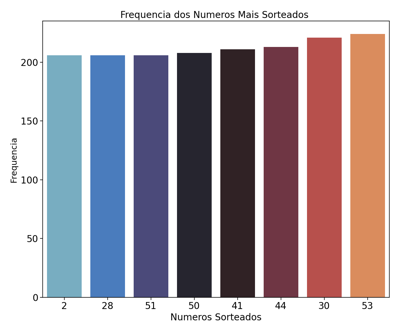
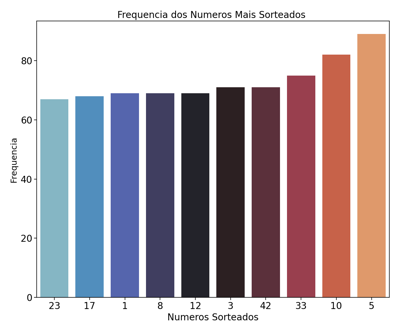
atualizada a janela 4 com mais dados

diff --git a/telas.py b/telas.py
@@ -188,8 +188,8 @@ class  Primeira():
         freq = a.FreqNumSorteados(ganhadores)
         freq.sort_values(['Frequencia'], ascending=True)
         est_freq = a.estatisticoData(freq)
-        self.Max = a.nMaiores(freq,15) ##  Esse valor de 20 é que define o tamanho da amostra mais sorteados
-        self.Min = a.nMenores(freq,15) ## mesmo acima menos sorteados 
+        self.Max = a.nMaiores(freq,10) ##  Esse valor de 20 é que define o tamanho da amostra mais sorteados
+        self.Min = a.nMenores(freq,10) ## mesmo acima menos sorteados 
         return (self.Max, self.Min)
 
 ## Segunda tela
@@ -405,7 +405,7 @@ class Terceira():
 
 ### Quarta tela
 class Quarta():
-    def __init__(self, res) -> None:
+    def __init__(self, lst, res, a, b, c, d, e, f) -> None:
             
             self.c1 = '#0d2754'  #Cor do fundo de tela geral
             self.c2 = '#0a0e2e' #Cor de fundo do  Frame
@@ -414,7 +414,7 @@ class Quarta():
             self.c5 ='#f5f5f7'  #Cor dos textos
             self.c6 = '#eb3175' # Cor para  fundo respostas Rosado 
             self.c7 = '#f5e35b' # Cor texto resposta Amarelado
-
+            self.c8 = '#abf5d0' # Cor fundo texto respostas em verde
 
             # Demais funcoes de tela
             self.janela = Toplevel()
@@ -429,12 +429,20 @@ class Quarta():
             self.janela.focus_force()
             self.janela.grab_set()
             ## Chamando demais funçoes 
-            self.framesScreem(res)
+            self.framesScreem(lst, res, a,b,c,d,e,f)
             
-
-    def framesScreem (self, resultado):
+            
+    def framesScreem (self, lista, resultado, a,b, c, d, e, f):
             '''Função que define o tamnho e a posição dos frames'''
+            self.jogoProposto = lista
             self.resultAvalia = resultado
+            self.umNumero = a
+            self.doisNumeros = b
+            self.tresNumeros = c
+            self.quatroNumeros = d
+            self.cincoNumeros = e
+            self.seisNumeros = f
+
             # FRAME 1
             self.frame1 = Frame(self.janela, bd=4 ,bg=self.c2, highlightbackground=self.c3, highlightthickness=3)
             self.frame1.place(relx=0.01, rely=0.02, relwidth=0.97, relheight=0.77)
@@ -456,6 +464,33 @@ class Quarta():
             text3 =  Label(self.frame1, text= self.resultAvalia, font=('nimbus sans l', 13), fg=self.c7, bg=self.c6, justify='left', wraplength= 1220)
             text3.place(relx=0.01, rely=0.20)
 
+            texto4 = f'Com a APOSTA PROPOSTA : '
+            tex4= Label(self.frame1, text= texto4, font=('Arial', 15), fg=self.c5, bg=self.c2, justify='left', wraplength= 500)
+            tex4.place(relx=0.01, rely=0.30)
+
+            texto4b = f'Jogo -->>   {self.jogoProposto} '
+            tex4b= Label(self.frame1, text= texto4b, font=('Arial', 15), fg=self.c5, bg=self.c2, justify='left', wraplength= 500)
+            tex4b.place(relx=0.01, rely=0.35)
+
+            texto5 = f'* 1 *Iniciando com o primeiro numero teriamos  {self.umNumero}  Jogos '
+            text5 =  Label(self.frame1, text= texto5, font=('nimbus sans l', 14), fg=self.c1, bg=self.c8, justify='left', wraplength= 1220)
+            text5.place(relx=0.01, rely=0.40)
+
+            texto6 = f'* 2 *Iniciando com o primeiro  e o segundo numero teriamos  {self.doisNumeros}  Jogos '
+            text6 =  Label(self.frame1, text= texto6, font=('nimbus sans l', 14), fg=self.c1, bg=self.c8, justify='left', wraplength= 1220)
+            text6.place(relx=0.01, rely=0.45)
+
+            texto7 = f'* 3 *Iniciando com o primeiro, o segundo e o terceiro numero teriamos  {self.tresNumeros}  Jogos '
+            text7 =  Label(self.frame1, text= texto7, font=('nimbus sans l', 14), fg=self.c1, bg=self.c8, justify='left', wraplength= 1220)
+            text7.place(relx=0.01, rely=0.50)
+
+            texto8 = f'* 4 *Iniciando com o primeiro, o segundo, o terceiro e o quarto  numero teriamos  {self.quatroNumeros}  Jogos '
+            text8 =  Label(self.frame1, text= texto8, font=('nimbus sans l', 14), fg=self.c1, bg=self.c8, justify='left', wraplength= 1220)
+            text8.place(relx=0.01, rely=0.55)
+
+            texto9 = f'* 5 *Iniciando com o primeiro, o segundo, o terceiro, o quarto  e o quinto numero teriamos  {self.cincoNumeros}  Jogos '
+            text9 =  Label(self.frame1, text= texto9, font=('nimbus sans l', 14), fg=self.c1, bg=self.c8, justify='left', wraplength= 1220)
+            text9.place(relx=0.01, rely=0.60)
 
 
             

diff --git a/analiseMatematica.py b/analiseMatematica.py
@@ -91,18 +91,23 @@ class Estatistica():
         ### A 1
         i = 0
         self.a = self.dataframe.loc[self.dataframe['dezena1'] == self.lista[i]] 
+        k = len(self.a)
         self.b= self.a.loc[self.a['dezena2'] == self.lista[i+1]]
+        l = len(self.b)
         self.c = self.b.loc[self.b['dezena3'] == self.lista[i+2]]
+        m = len(self.c)
         self.d = self.c.loc[self.c['dezena4'] == self.lista[i+3]]
+        n = len(self.d)
         self.e = self.d.loc[self.d['dezena5'] == self.lista[i+4]]
+        o = len(self.e)
         self.f = self.e.loc[self.e['dezena6'] == self.lista[i+5]]
+        p = len(self.f)
         
-        if  len(self.f) == 0:
+        if  p == 0:
             resultado = f'SEM acertos'
         else:
-            k = len(self.f)
-            resultado = f'Já ocorreu este Jogo {k}  vez (s)'
-        return resultado
+            resultado = f'Já ocorreu este Jogo {p}  vez (s)'
+        return (resultado, k, l, m, n, o,p)
 
         
 

diff --git a/megaLimpezaDados.py b/megaLimpezaDados.py
@@ -53,9 +53,6 @@ class PuxaCSV:
     
     ### DataFrame 02
     
-
-
-
     def faxinaData(self,df0):
         '''Funçao cria novo dataframe com elininação dos dados
         NdN contidos no frame inicial '''
@@ -63,12 +60,6 @@ class PuxaCSV:
         self.df = self.dataFrame.sort_values(['Concurso'], ascending=True)
         self.df.fillna(value='',  inplace=True)  #Retira todos NaN do dataframe
         return self.df
-
-    def criaListaSorteio(self):
-        '''Funcao que elimina algumas colunas deixando as dezenas sorteadas
-        e o numero do concurso '''
-        self.df2 = self.df1.drop(['Data', 'Ganhador', 'premio'], axis=1) 
-        return self.df2
 
     def retira(self, dtf):
         "Funcao Retira colunas"

diff --git a/gerenciadorTelasTK.py b/gerenciadorTelasTK.py
@@ -78,9 +78,9 @@ def janela4():
         x.sort()
     print(x)
     dadosTabela = db
-    funcao = analiseMatematica.Estatistica().avaliaSorteios(dadosTabela,x)
+    funcao, a1, a2, a3, a4, a5, a6  = analiseMatematica.Estatistica().avaliaSorteios(dadosTabela,x)
 
-    telas.Quarta(funcao)
+    telas.Quarta(x, funcao, a1, a2, a3, a4, a5, a6)
 
 
 def framesScreem ():
@@ -125,8 +125,6 @@ def framesScreem ():
         btn4 = Button(frame1, text ='Tela 04 ', command = janela4) 
         btn4.place (relx = 0.05, rely= 0.74)
 
-        
-        
 
            ###  =-=-=-=-=- FRAME 02 =-=-=-=-=-=-=-=
         # FRAME 2 Area de visualização dos dados do programa
